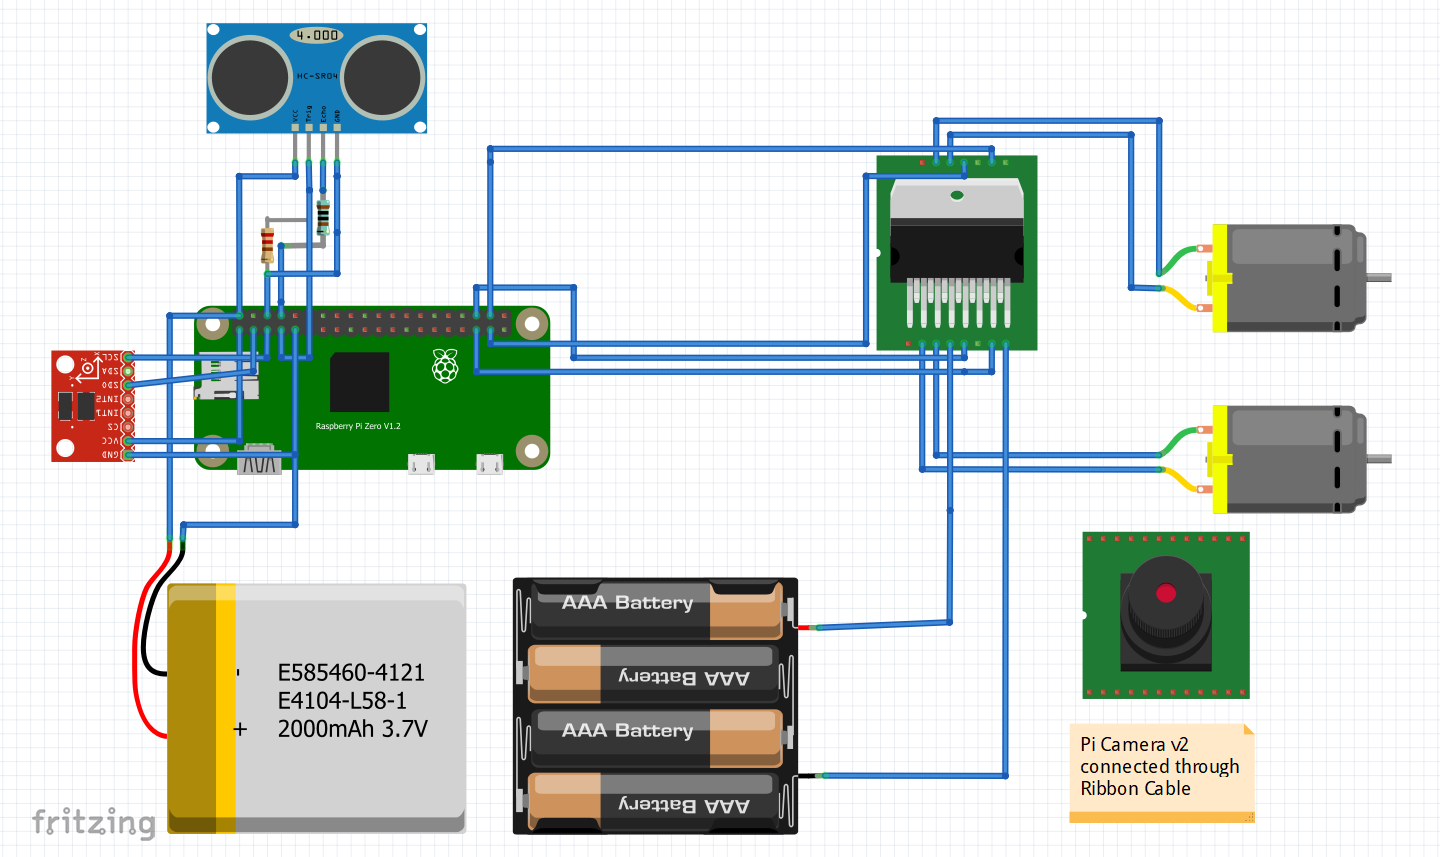
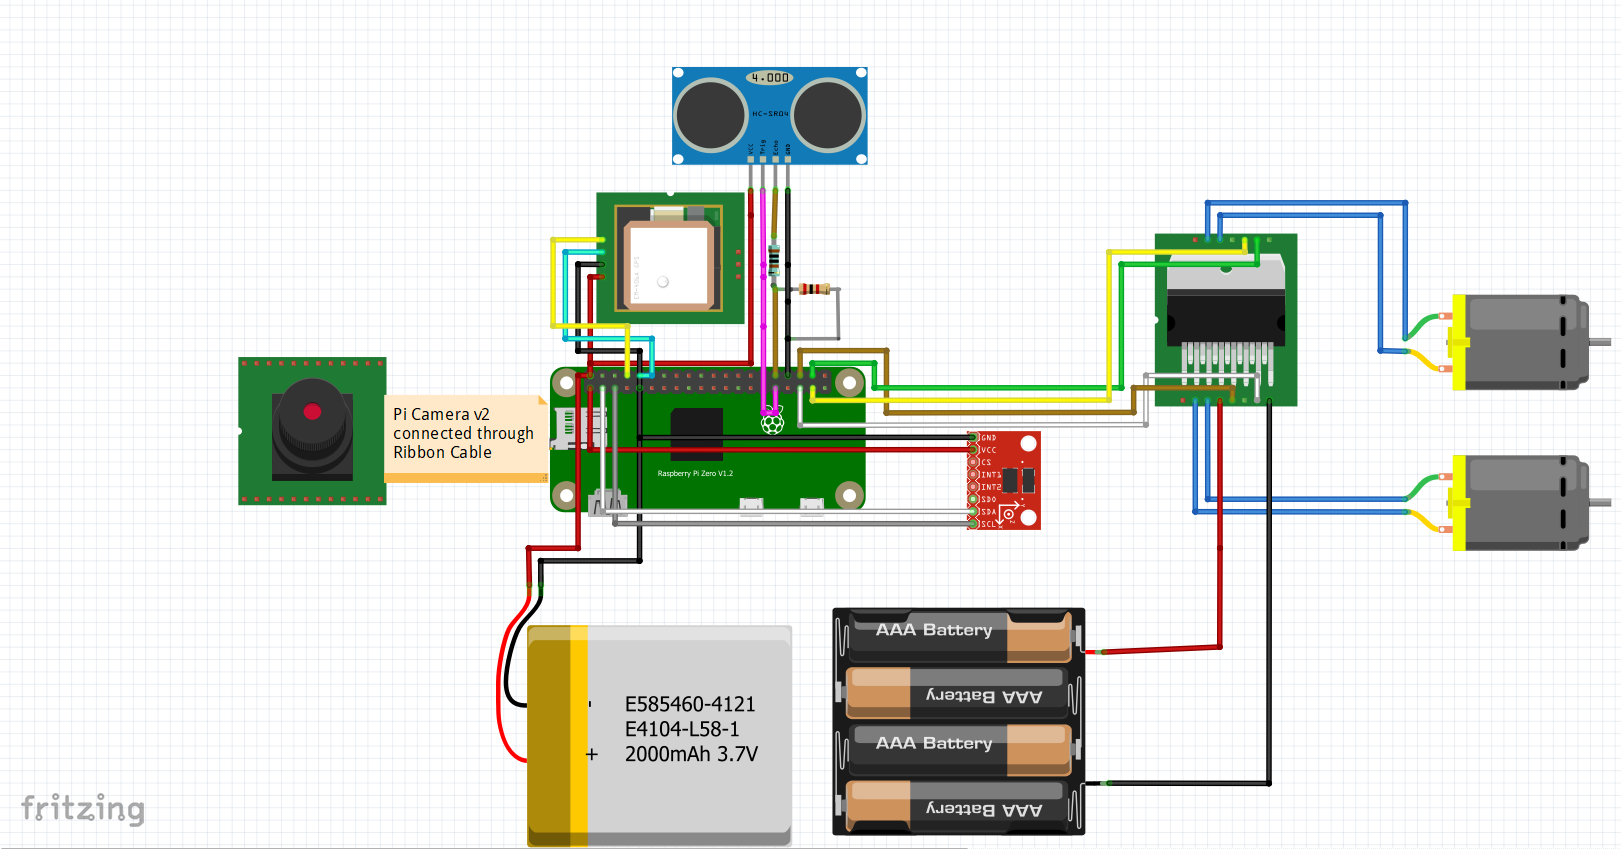
Added GPS Sensor (driver, DBUS Object, schematic)

diff --git a/BLECarPiZeroW/dbusObjects/GPSSensorDBUS.py b/BLECarPiZeroW/dbusObjects/GPSSensorDBUS.py
@@ -1,0 +1,47 @@
+#!/usr/bin/python3
+
+import _thread
+import time
+import gi
+from drivers.GPSSensor import GPSSensor
+
+gi.require_version('Gtk', '3.0')
+from gi.repository import Gtk
+import dbus
+import dbus.service
+from dbus.mainloop.glib import DBusGMainLoop
+
+class GPSSensorDBUS(dbus.service.Object):
+
+    gpsSensor = GPSSensor()
+
+    def __init__(self):
+        bus_name = dbus.service.BusName('picar.sensor.gps', bus=dbus.SessionBus())
+        dbus.service.Object.__init__(self, bus_name, '/picar/sensor/gps')
+        self._startSensor()
+
+    def _startSensor(self):
+        """notifies the driver to start the GPS sensor'"""
+        _thread.start_new_thread(self.gpsSensor.start_measurement,())
+        while True:
+            print(str(self.gpsSensor.get_gps()))
+            time.sleep(2)
+
+
+    @dbus.service.method('picar.sensor.gps')
+    def getCoords(self):
+        """returns the GPS object from the sensor"""
+        return self.gpsSensor.get_gps()
+
+    @dbus.service.method('picar.sensor.gps')
+    def quit(self):
+        """stops the meassurement, removes this object from the DBUS connection and exits"""
+        self.gpsSensor.stop()
+        self.remove_from_connection()
+        Gtk.main_quit()
+        return
+
+if __name__ == "__main__":
+    DBusGMainLoop(set_as_default=True)
+    myservice = GPSSensorDBUS()
+    Gtk.main()

diff --git a/BLECarPiZeroW/dbusObjects/drivers/GPSSensor.py b/BLECarPiZeroW/dbusObjects/drivers/GPSSensor.py
@@ -1,0 +1,47 @@
+import serial
+import pynmea2
+
+
+class GPSSensor:
+    SERIAL_BAUDRATE = 9600
+    SERIAL_PORT = '/dev/serial0'
+
+    def __init__(self):
+        self.ser = serial.Serial(self.SERIAL_PORT, self.SERIAL_BAUDRATE)
+        print('Initialized serial interface for GPS Sensor')
+        self.shouldIRun = True
+        self.gps = None
+
+    def start_measurement(self):
+        # self.ser.open()
+        while self.shouldIRun:
+            data = self.ser.readline().decode('ascii')
+            if data[0:6] == '$GPGGA':
+                self.gps = pynmea2.parse(data)
+
+    def get_gps(self):
+        return self.gps
+
+    def stop(self):
+        self.shouldIRun = False
+        self.ser.close()
+        print('Closed serial interface for GPS Sensor')
+
+
+# Serial GPS Sensor Test: Expect the coordinates and altitude provided by the sensor
+# import _thread
+# import time
+#
+# if __name__ == "__main__":
+#     try:
+#         dut = GPSSensor()
+#         _thread.start_new_thread(dut.start_measurement, ())
+#         while True:
+#             time.sleep(1)
+#             gps = dut.get_gps()
+#             print('lat=' + str(gps.latitude) + str(gps.lat_dir) + ' lon=' + str(gps.longitude) + str(
+#                 gps.lon_dir) + ' altitude=' + str(gps.altitude) + str(gps.altitude_units))
+#
+#
+#     finally:
+#         dut.stop()
